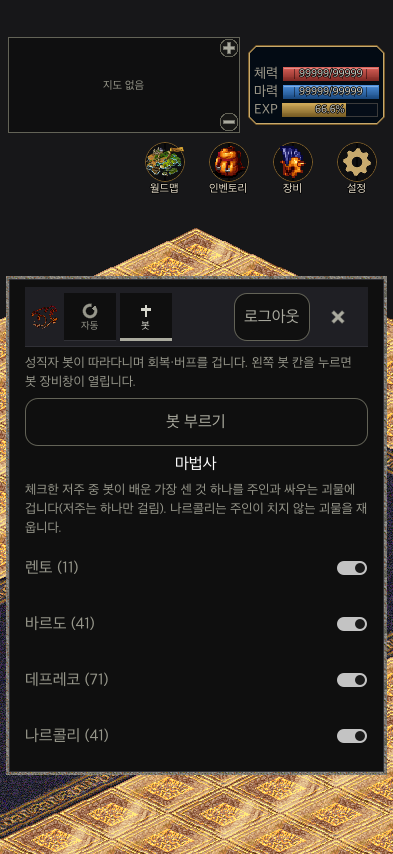
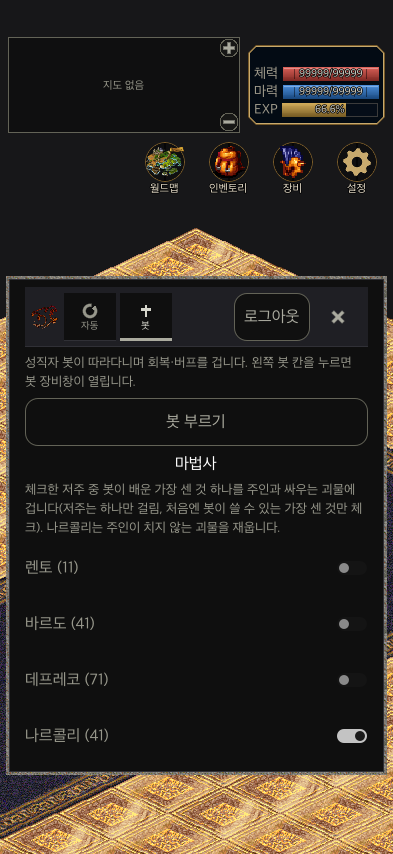
feat(client): 봇 「마법사」 처음 체크는 봇이 쓸 수 있는 가장 센 저주 하나 + 나르콜리만
Claude-Session: https://claude.ai/code/session_019S3DcaRYrHfinSJ43v9r8s

Changed region(s): [[0.2748, 0.5785, 0.9466, 0.6393], [0.855, 0.6393, 0.9466, 0.822], [0.0611, 0.6089, 0.2443, 0.6393]]

diff --git a/mobile/client/src/Windows/SettingsPanel.cs b/mobile/client/src/Windows/SettingsPanel.cs
@@ -54,18 +54,20 @@ public sealed partial class SettingsPanel : PanelContainer
 
         // 마법사 — 봇이 레벨대로 배운 저주·나르콜리를 쓸지(사용자, 2026-10-03). 바뀌면 게임 화면이 서버로 보낸다(0xF1 6).
         bot.AddChild(new Label { Text = "마법사", HorizontalAlignment = HorizontalAlignment.Center });
-        bot.AddChild(Caption("체크한 저주 중 봇이 배운 가장 센 것 하나를 주인과 싸우는 괴물에 겁니다(저주는 하나만 걸림). 나르콜리는 주인이 치지 않는 괴물을 재웁니다."));
+        bot.AddChild(Caption("체크한 저주 중 봇이 배운 가장 센 것 하나를 주인과 싸우는 괴물에 겁니다(저주는 하나만 걸림, 처음엔 봇이 쓸 수 있는 가장 센 것만 체크). 나르콜리는 주인이 치지 않는 괴물을 재웁니다."));
         foreach ((string name, CompanionSpells.Magic bit) in new[]
                  {
                      ("렌토 (11)", CompanionSpells.Magic.Lento), ("바르도 (41)", CompanionSpells.Magic.Bardo),
                      ("데프레코 (71)", CompanionSpells.Magic.Depreco), ("나르콜리 (41)", CompanionSpells.Magic.Sleep),
                  })
         {
-            bot.AddChild(Row(name, Switch((Main.BotMagic & bit) != 0, on =>
+            CheckButton check = Switch(false, on =>
             {
-                Main.SetBotMagic(on ? Main.BotMagic | bit : Main.BotMagic & ~bit);
+                Main.SetBotMagic(on ? _shownMagic | bit : _shownMagic & ~bit);
                 BotMagicChanged?.Invoke();
-            })));
+            });
+            _magicSwitches[bit] = check;
+            bot.AddChild(Row(name, check));
         }
 
         // [로그아웃] 은 탭이 아니라 제목 줄에 — 어느 탭에서나 한 번에 닿는다(사용자, 2026-09-26: 종료가 너무 깊고 로그아웃이 안 보인다).
@@ -158,6 +160,25 @@ public sealed partial class SettingsPanel : PanelContainer
         }
 
         return check;
+    }
+
+    private readonly Dictionary<CompanionSpells.Magic, CheckButton> _magicSwitches = new();
+    private CompanionSpells.Magic _shownMagic = CompanionSpells.Magic.None;
+
+    /// <summary>
+    /// 체크 칸을 지금 값으로 — 고른 적이 없으면 레벨에 따라 바뀌는 기본(가장 센 저주 하나)이라 게임 화면이 틱마다 알려 준다.
+    /// </summary>
+    public void ShowBotMagic(CompanionSpells.Magic magic)
+    {
+        _shownMagic = magic;
+
+        foreach ((CompanionSpells.Magic bit, CheckButton check) in _magicSwitches)
+        {
+            if (check.ButtonPressed != ((magic & bit) != 0))
+            {
+                check.SetPressedNoSignal((magic & bit) != 0);
+            }
+        }
     }
 
     /// <summary>봇 탭 「마법사」 체크를 바꿨다 — 값은 <see cref="Main.BotMagic"/>.</summary>

diff --git a/mobile/client/src/App/Main.Settings.cs b/mobile/client/src/App/Main.Settings.cs
@@ -107,12 +107,16 @@ public partial class Main : Control
     }
 
     /// <summary>
-    /// 봇 탭 「마법사」 — 봇이 걸어도 되는 저주(렌토·바르도·데프레코 따로)·나르콜리. 기기에 남고(비트 숫자 한 줄), 처음엔 모두 켬.
+    /// 봇 탭 「마법사」 — 봇이 걸어도 되는 저주(렌토·바르도·데프레코 따로)·나르콜리. 기기에 남는다(비트 숫자 한 줄). 고른 적이 없으면(null)
+    /// 봇 레벨에서 가장 센 저주 하나 + 나르콜리(<see cref="CompanionSpells.DefaultMagic"/>) — 레벨이 오르면 따라 바뀐다.
     /// 서버는 메모리에만 두므로 바꿀 때와 봇을 부를 때 보낸다(0xF1 6).
     /// </summary>
     private const string BotMagicFile = "user://botmagic.cfg";
 
-    public static CompanionSpells.Magic BotMagic { get; private set; } = CompanionSpells.Magic.All;
+    public static CompanionSpells.Magic? BotMagic { get; private set; }
+
+    /// <summary>지금 봇에게 보낼 체크 — 고른 것, 없으면 내 레벨의 기본.</summary>
+    public static CompanionSpells.Magic BotMagicFor(int ownerLevel) => BotMagic ?? CompanionSpells.DefaultMagic(ownerLevel);
 
     public static void SetBotMagic(CompanionSpells.Magic magic)
     {

diff --git a/mobile/client/src/Screens/GameScreen.cs b/mobile/client/src/Screens/GameScreen.cs
@@ -394,6 +394,7 @@ public partial class GameScreen : Control
         _leaving = true;
         _settings.Exit.Disabled = true;
         _world.Frozen = true;
+        if (Main.ActivityHost is { } host) await host.FinishActivity(false);
 
         if (_server is { } server)
         {
@@ -416,6 +417,7 @@ public partial class GameScreen : Control
         }
 
         _world.Frozen = true;
+        if (Main.ActivityHost is { } host) await host.FinishActivity(true);
 
         if (_server is { } server)
         {
@@ -544,6 +546,7 @@ public partial class GameScreen : Control
         KeepGuiding(delta);
         KeepAutoHuntButton();
         _settings.ShowCompanion(_server?.Companion is not null);
+        _settings.ShowBotMagic(Main.BotMagicFor(_server?.Vitals?.Level ?? 0));
 
         if (Main.CompanionOnStart && _companionSettling >= 0 && _world.MapId > 0 && _server?.Vitals is not null
             && ++_companionSettling == 120)

diff --git a/mobile/src/Lod.Mobile.Core/Automation/CompanionSpells.cs b/mobile/src/Lod.Mobile.Core/Automation/CompanionSpells.cs
@@ -22,6 +22,17 @@ public static class CompanionSpells
         All = Lento | Sleep | Bardo | Depreco,
     }
 
+    /// <summary>
+    /// 고른 적이 없을 때의 체크 — 봇(주인 레벨 − 2, 서버 <c>Companions.LevelFor</c>)이 쓸 수 있는 가장 센 저주 하나와 나르콜리
+    /// (사용자 2026-10-03: "가장 센 거만 체크"). 레벨은 서버 <c>Companions.PriestSpells</c> 와 같다 — 렌토 11 · 바르도 41 · 데프레코 71.
+    /// </summary>
+    public static Magic DefaultMagic(int ownerLevel)
+    {
+        int bot = Math.Max(1, ownerLevel - 2);
+
+        return Magic.Sleep | (bot >= 71 ? Magic.Depreco : bot >= 41 ? Magic.Bardo : bot >= 11 ? Magic.Lento : Magic.None);
+    }
+
     /// <summary>이 마법(꼬리 뗀 이름)을 켜고 끄는 체크 — 저주·나르콜리가 아니면 None.</summary>
     public static Magic SwitchOf(string name) => Bare(name) switch
     {

diff --git a/mobile/tests/Lod.Mobile.Core.Tests/World/CompanionMagicTests.cs b/mobile/tests/Lod.Mobile.Core.Tests/World/CompanionMagicTests.cs
@@ -144,6 +144,16 @@ public sealed class CompanionMagicTests
     }
 
     [Fact]
+    public void Untouched_only_the_strongest_curse_the_bot_can_use_is_ticked()
+    {
+        // 봇 레벨 = 주인 − 2.
+        Assert.Equal(CompanionSpells.Magic.Sleep, CompanionSpells.DefaultMagic(12));
+        Assert.Equal(CompanionSpells.Magic.Sleep | CompanionSpells.Magic.Lento, CompanionSpells.DefaultMagic(13));
+        Assert.Equal(CompanionSpells.Magic.Sleep | CompanionSpells.Magic.Bardo, CompanionSpells.DefaultMagic(43));
+        Assert.Equal(CompanionSpells.Magic.Sleep | CompanionSpells.Magic.Depreco, CompanionSpells.DefaultMagic(73));
+    }
+
+    [Fact]
     public void Switches_go_out_as_kind_six_and_come_back_on_the_master_tie()
     {
         Assert.Equal(new byte[] { 6, 5 }, Companion.Magic(CompanionSpells.Magic.Lento | CompanionSpells.Magic.Bardo));

diff --git a/mobile/client/src/Screens/GameScreen.Party.cs b/mobile/client/src/Screens/GameScreen.Party.cs
@@ -25,7 +25,7 @@ public partial class GameScreen : Control
     }
 
     private System.Threading.Tasks.Task SendBotMagic() =>
-        _server?.SendCompanionMagicAsync(Main.BotMagic, System.Threading.CancellationToken.None)
+        _server?.SendCompanionMagicAsync(Main.BotMagicFor(_server.Vitals?.Level ?? 0), System.Threading.CancellationToken.None)
         ?? System.Threading.Tasks.Task.CompletedTask;
 
     /// <summary>

diff --git a/NEXT.md b/NEXT.md
@@ -1,7 +1,7 @@
 <!-- NEXT-ACTION:START -->
 ## ▶ 지금 할 일 (새 세션은 이 블록부터 — SessionStart 훅이 자동 주입)
 
-- **[현재/2026-10-03] 봇 마법사 마법(저주·나르콜리) — 등급 M · `dev:build` · 단계: 구현·검증·리뷰·로컬 커밋 끝, 배포 남음.** 봇이 렌토11·바르도41·나르콜리41·데프레코71 를 레벨대로 받고, 주인과 싸우는 괴물에 저주, 주인이 치지 않는 괴물에 나르콜리(잠든 것을 본 뒤 20초 안 다시 안 재움, 마력 50% 이상만). 앱 설정 봇 탭 「마법사」 [렌토]·[바르도]·[데프레코]·[나르콜리] 체크(처음엔 모두 = 배운 가장 센 저주) → 0xF1 6 → 0x5E 1 꼬리. SPEC `plans/bot-wizard-curses-2026-10-03.md`, 사진 `shots/bot-magic-tab-2026-10-03.png`.
+- **[현재/2026-10-03] 봇 마법사 마법(저주·나르콜리) — 등급 M · `dev:build` · 단계: 구현·검증·리뷰·로컬 커밋 끝, 배포 남음.** 봇이 렌토11·바르도41·나르콜리41·데프레코71 를 레벨대로 받고, 주인과 싸우는 괴물에 저주, 주인이 치지 않는 괴물에 나르콜리(잠든 것을 본 뒤 20초 안 다시 안 재움, 마력 50% 이상만). 앱 설정 봇 탭 「마법사」 [렌토]·[바르도]·[데프레코]·[나르콜리] 체크(처음엔 봇이 쓸 수 있는 가장 센 저주 하나 + 나르콜리만) → 0xF1 6 → 0x5E 1 꼬리. SPEC `plans/bot-wizard-curses-2026-10-03.md`, 사진 `shots/bot-magic-tab-2026-10-03.png`.
   **다음**: 서버·봇 배포(`cloud-server.sh deploy` — 접속 기록 작업의 커밋 안 된 서버 코드도 함께 빌드해야 한다) + 앱 `ios-build.sh install` → 폰에서 봇이 사슴·괴물에 저주 색·잠을 거는지 확인.
 
 - **[현재/2026-10-03 아침] 폰 보고 묶음 — 등급 M · 단계: 고침·배포 끝, 폰 확인 남음.** 사라진 개인 사본(60000~)에 저장된 캐릭터 로그인 막힘(로그인 서버) · 글러브1 착용 그림 79(원작에 없음) → 견습자의글러브 86 · 장비 단추가 남의 장비창에 머물던 것 · 스킬창 Assail→기본공격, beag ioc fein 뺌 · 대시보드 기술·마법은 스킬창에 보이는 것만 「구현」(나머지 「미구현」 칩) · **새 앱 알림**: 빌드가 만든 시각을 앱 안 `app-version.txt`·페이지 `/download/version-ios.txt`(윈도우 `version-windows.txt`)에 적고 로그인 화면이 견줘 안내(`AppUpdate`). 서버·대시보드·아이폰/윈도우 앱 모두 올림(앱 번호 202610030903/0907). 미니맵 구광산 출구·월드맵 레벨은 자료가 이미 맞았고 폰의 앱이 10-02 저녁 전 판이었다.

diff --git a/docs/mobile-client.md b/docs/mobile-client.md
@@ -470,7 +470,7 @@ LOD_AUTOHUNT_SHOT=/tmp/autohunt.png LOD_AUTOHUNT_SHOT_AFTER=11 \
 - **마법사 마법(2026-10-03, 사용자)**: 봇은 성직자 마법에 더해 마법사 저주·나르콜리를 레벨대로 받는다(`Companions.PriestSpells` — 렌토 11 · 바르도 41 · 나르콜리 41 · 데프레코 71 — 바르도·데프레코는 사용자 기준, 5.99 사범 메뉴는 21·55).
   판단 `CompanionBrain.Assist`(버프 다음, 따라가기 앞): 싸우는 괴물에게 저주(서버 `Pack599.Curse` — 방어 +15/25/35·몸 색, 그림 82가 보이면 안 건다 — 스크립트가 마력부터 빼므로),
   주인이 **치지 않는** 괴물에게 나르콜리(수면은 못 움직이고 맞으면 2배 피해 뒤 풀린다 — `Sprite.cs`). 기본공격으로 깰 때마다 다시 걸지 않게 잠든 것을 본 뒤 20초는 그 괴물을 다시 안 재운다. 마력 50% 아래면 안 쓴다(회복 몫).
-  앱 설정 **봇** 탭 「마법사」 [렌토]·[바르도]·[데프레코]·[나르콜리] 체크(사용자 — 걸 저주를 고른다, 처음엔 모두 = 배운 가장 센 저주; 기기 `user://botmagic.cfg` 비트 숫자) →
+  앱 설정 **봇** 탭 「마법사」 [렌토]·[바르도]·[데프레코]·[나르콜리] 체크(사용자 — 걸 저주를 고른다, 고른 적이 없으면 봇 레벨(내 레벨 − 2)에서 쓸 수 있는 가장 센 저주 하나 + 나르콜리만 체크 — `CompanionSpells.DefaultMagic`, 레벨이 오르면 따라 바뀐다; 한 번 바꾸면 기기 `user://botmagic.cfg` 비트 숫자) →
   0xF1 6 `[6, 비트(1 렌토 · 2 나르콜리 · 4 바르도 · 8 데프레코)]`, 바꿀 때와 [봇 부르기] 때 보낸다 → 서버가 주인 이름으로 기억(메모리) →
   0x5E 종류 1 이름 뒤 한 바이트로 봇에게(없으면 모두). 봇은 체크된 저주 중 배운 가장 센 것 하나만(저주는 한 칸). 시험 `CompanionMagicTests` · 격리 `CompanionBotTests.The_bot_curses_and_sleeps_the_monster_on_its_owner_and_can_be_told_to_stop`.
 - **알려진 한계**: 봇이 쓰러지면(혼수) 멈출 뿐 스스로 일어나지 않는다 · 봇이 파티에 들어 사람의 경험치에 파티 몫(+5%)이 붙는다 · 봇 레벨이 낮아지면 주인이 준 높은 장비는 그대로 입고 있다 ·

diff --git a/mobile/bots/Lod.CompanionBot/README.md b/mobile/bots/Lod.CompanionBot/README.md
@@ -20,7 +20,7 @@ DOTNET_ROOT=../../../.tools/dotnet-9.0.317 ../../../.tools/dotnet-9.0.317/dotnet
 알맹이 `Lod.Mobile.Core/World/Companion.cs` 의 `CompanionBrain`(시험 `mobile/tests/.../CompanionTests.cs`):
 멈춤(혼수·죽음) > 주인 회복 > 봇 체력 포션(40%) > 자기 회복 마법 > 봇 마력 포션(30%) > 해제(디나르콜리·디소루마) > 버프 유지(서버가 알린 상태에 없을 때만) > 따라가기(3칸 넘으면 걷고 2칸 안이면 선다) > 쉬기 > 대기.
 **마법사 마법(2026-10-03)**: 버프 다음에 「돕기」 — 주인과 싸우는 괴물(주인이 3초 안에 쳤거나·주인을 쳤거나·주인 바로 옆)에게 저주(렌토 11·바르도 41·데프레코 71 중 배운 가장 센 것 하나 — 저주는 한 칸이라 걸려 있으면 풀릴 때까지 다른 것도 안 건다, 저주 그림 82가 없을 때만),
-주인이 치지 않는 괴물에게 나르콜리(41, 잠 그림 90 — 잠든 것을 본 뒤 20초는 깼어도 다시 안 건다). 마력 50% 이상일 때만. 주인이 앱 봇 탭 「마법사」에서 [렌토]·[바르도]·[데프레코]·[나르콜리]를 체크한다(처음엔 모두 — 배운 가장 센 저주, 0xF1 6 → 0x5E 종류 1 꼬리, 비트 1 렌토 · 2 나르콜리 · 4 바르도 · 8 데프레코).
+주인이 치지 않는 괴물에게 나르콜리(41, 잠 그림 90 — 잠든 것을 본 뒤 20초는 깼어도 다시 안 건다). 마력 50% 이상일 때만. 주인이 앱 봇 탭 「마법사」에서 [렌토]·[바르도]·[데프레코]·[나르콜리]를 체크한다(처음엔 봇이 쓸 수 있는 가장 센 저주 하나 + 나르콜리만, 0xF1 6 → 0x5E 종류 1 꼬리, 비트 1 렌토 · 2 나르콜리 · 4 바르도 · 8 데프레코).
 포션 기준은 설정 `PotionHealthPercent`·`PotionManaPercent` 로 바꾼다. 포션·장비는 주인이 앱의 봇 장비창에서 넘겨 준다.
 레벨·마법·체력은 서버가 부를 때마다 맞춘다(부른 사람 레벨 −2). 자세한 것은 `docs/mobile-client.md` 「동료 봇」.
 

diff --git a/plans/bot-wizard-curses-2026-10-03.md b/plans/bot-wizard-curses-2026-10-03.md
@@ -1,7 +1,7 @@
 # 봇 마법사 기능 — 저주·나르콜리 (2026-10-03, 등급 M)
 
 **문제**: 봇(성직자)이 회복·버프만 한다. 사용자: 마법사 저주·나르콜리도 레벨에 맞게 쓰고, 봇 탭에서 켜고 끈다.
-**바뀜(사용자 2026-10-03)**: 봇 탭에서 걸 저주를 셋 따로 체크(렌토·바르도·데프레코, 처음엔 모두) — 체크된 것 중 배운 가장 센 것. 비트 1 렌토 · 2 나르콜리 · 4 바르도 · 8 데프레코.
+**바뀜(사용자 2026-10-03)**: 봇 탭에서 걸 저주를 셋 따로 체크(렌토·바르도·데프레코, 처음엔 봇이 쓸 수 있는 가장 센 저주 하나 + 나르콜리만 체크) — 체크된 것 중 배운 가장 센 것. 비트 1 렌토 · 2 나르콜리 · 4 바르도 · 8 데프레코.
 **성공**: 봇이 주인과 싸우는 괴물에게 저주(방어력↓·몸 색)를 한 번 걸어 두고, 주인이 안 치는 괴물을 나르콜리로 재운다.
 주인이 기본공격으로 깨워도 같은 괴물에 다시 걸어 마력을 버리지 않는다. 봇 탭 「마법사」의 [저주]·[나르콜리] 로 끈다.
 **안 할 것**: 새 이펙트·새 직업 봇·프라보(전직)·서버 효과 변경(저주 방어·색, 수면 2배·맞으면 풀림은 이미 있다).
